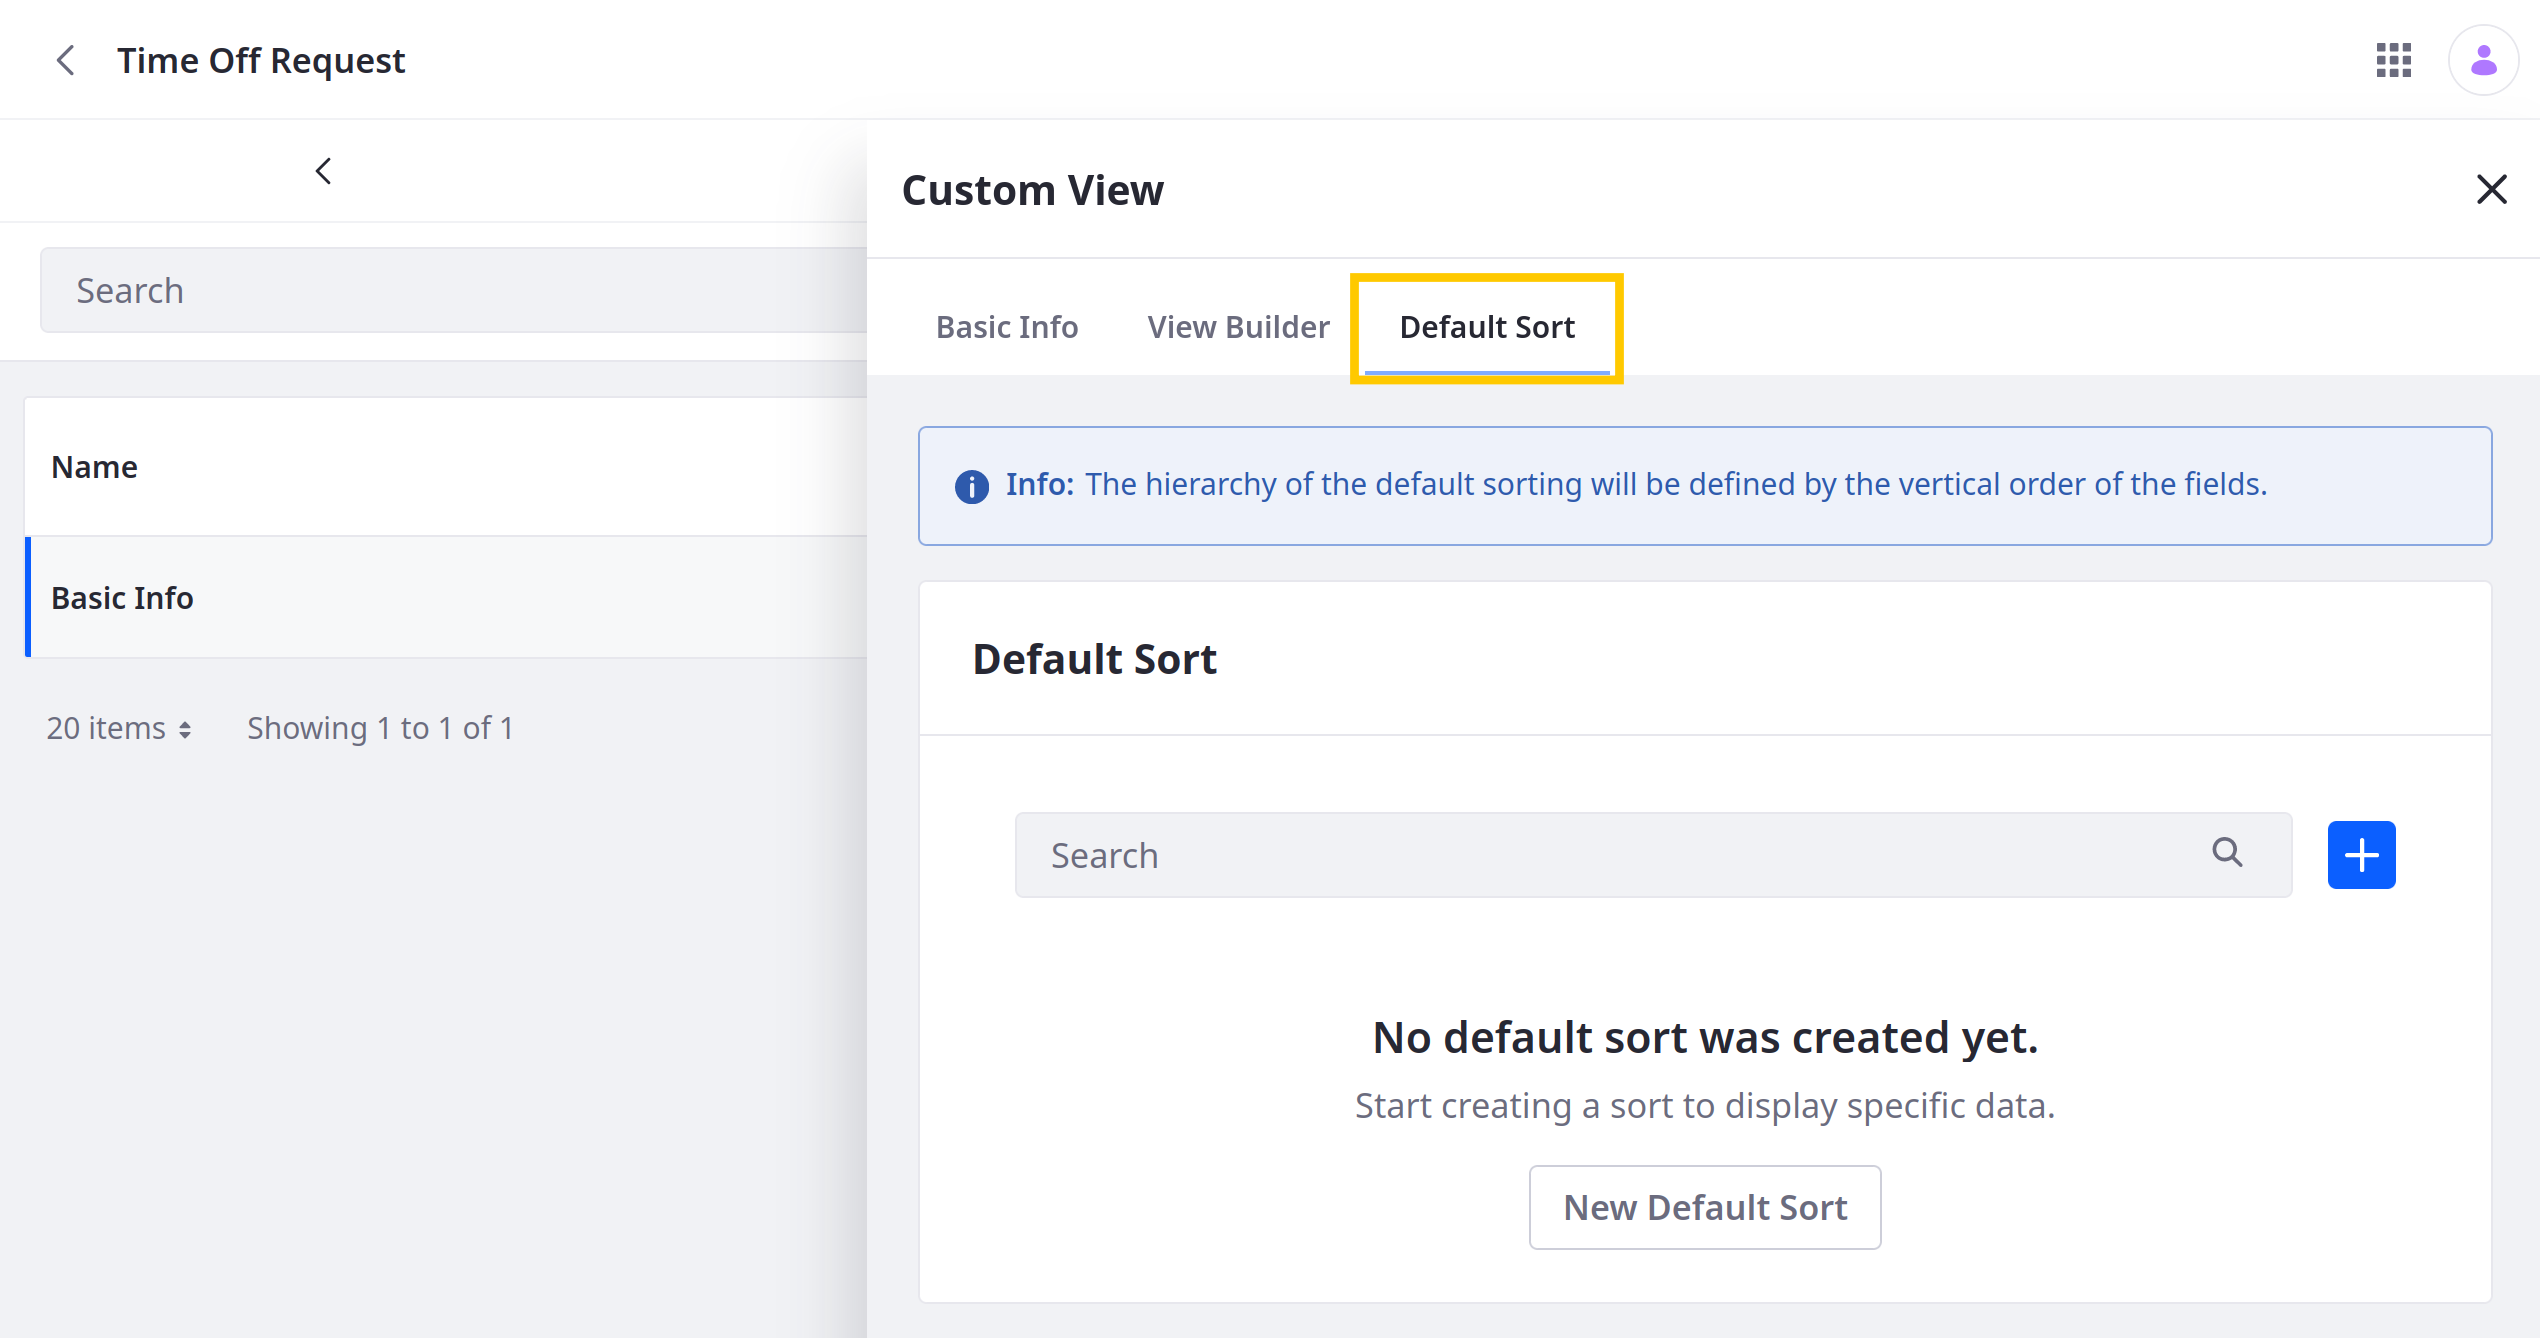
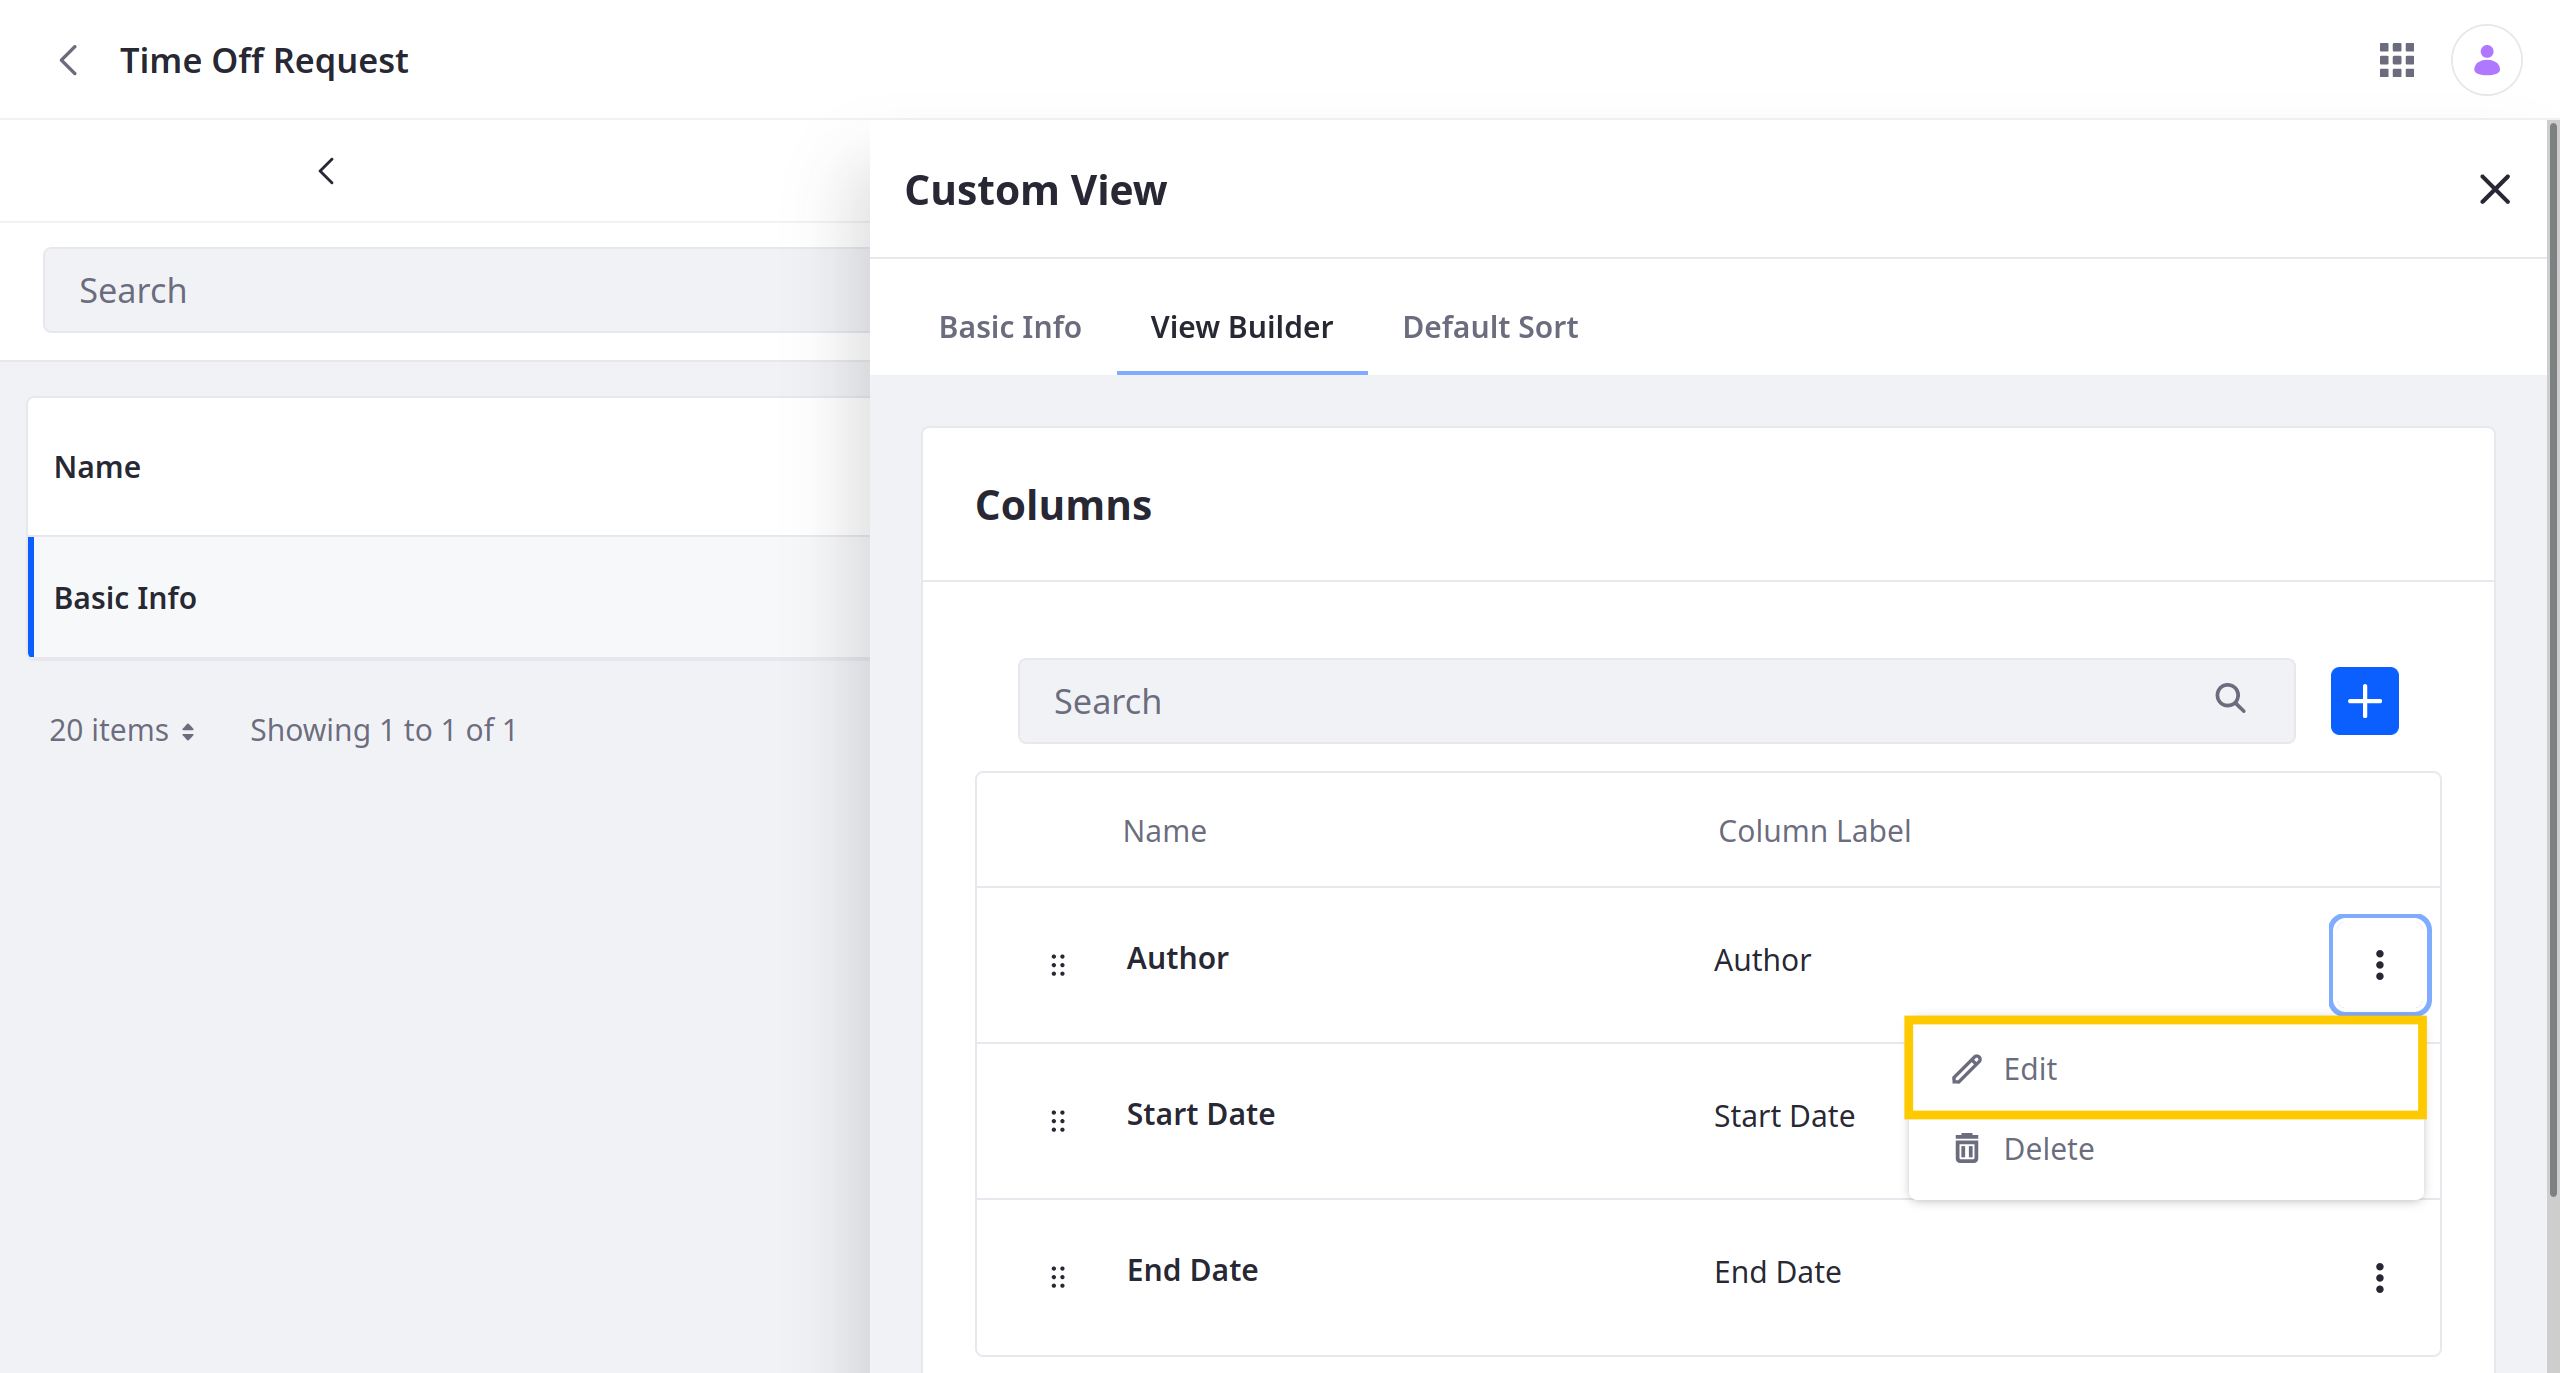
LRDOCS-10384 & 10385 wordsmithing, restructuring, adds images

diff --git a/docs/dxp/latest/en/building-applications/objects/creating-and-managing-objects/designing-object-views.md b/docs/dxp/latest/en/building-applications/objects/creating-and-managing-objects/designing-object-views.md
@@ -7,7 +7,7 @@ Object views define tables for displaying entries in an Object's application pag
 ![Design custom views for displaying Object entries.](./designing-object-views/images/01.png)
 
 ```{note}
-Custom views can only be added to custom Objects. They cannot be added for System Objects.
+Custom views can only be added to custom Objects. They cannot be added to system Objects.
 ```
 
 Follow these steps to design a custom Object view:
@@ -50,33 +50,47 @@ Follow these steps to design a custom Object view:
 
 1. Drag and drop fields to arrange their order.
 
-1. (Optional) For 7.4 U21+, rename a column by clicking its *Actions* button (![Actions Button](../../../images/icon-actions.png)) and selecting *Rename*. This changes the column's display name in the custom view.
+1. (Optional) [Change or localize](#renaming-columns) the display name for each view column.
 
 1. Click *Save*.
 
-Once saved, the custom view is used for displaying Object entries.
+Once saved, the custom view is used to display the Object's entries.
 
 ```{tip}
 For 7.4 U21+, you can duplicate a view by clicking its *Actions* button (![Actions Button](../../../images/icon-actions.png)) and selecting *Duplicate*. This creates a complete copy of the original view with "(Copy)" appended to it's name. 
 ```
 
-## Setting a Default Sorting for Views
+## Renaming Columns
+
+{bdg-secondary}`Available Liferay DXP 7.4 U21+ and Portal 7.4 GA21+`
+
+Follow these steps to change or localize the display name of view columns:
+
+1. Select the desired *view* and go to the *View Builder* tab.
+
+1. Click the *Actions* button (![Actions Button](../../../images/icon-actions.png)) for the desired column and select *Edit*.
+
+   ![Click the Actions button for the desired column and select Edit.](./designing-object-views/images/05.png)
+
+1. Enter a localizable name into the *Column Label* field and click *Edit*.
+
+   ![Enter a localizable name and click Edit.](./designing-object-views/images/06.png)
+
+1. Click *Save*.
+
+## Setting a Default Sorting
 
 {bdg-secondary}`Available Liferay DXP 7.4 U18+ and Portal 7.4 GA18+`
 
 Follow these steps to set the default ordering/sorting for Object View columns:
 
-1. Open the *Global Menu* (![Global Menu](../../../images/icon-applications-menu.png)), click the *Control Panel* tab, and go to *Objects*.
+1. Select the desired *view*, go to the *Default Sort* tab, and click the *Add* button (![Add Button](../../../images/icon-add.png)).
 
-1. Begin editing the desired *Object*, go to the *Views* tab, and select the desired *view*.
-
-1. Go to the *Default Sort* tab and click the *Add* button (![Add Button](../../../images/icon-add.png)).
-
-   ![Go to the Default Sort tab and click the Add button.](./designing-object-views/images/05.png)
+   ![Go to the Default Sort tab and click the Add button.](./designing-object-views/images/07.png)
 
 1. Select a *column* and *sorting* order (i.e., Ascending or Descending).
 
-   ![Select a column and sorting.](./designing-object-views/images/06.png)
+   ![Select a column and sorting.](./designing-object-views/images/08.png)
 
 1. Click *Save*.
 
@@ -84,10 +98,10 @@ Object entries are now sorted according to your default sorting.
 
 If you create multiple default sorts, you can rearrange them to determine which is applied to the view. The view uses the sort that's placed first.
 
-![Arrange sortings to determine which is used.](./designing-object-views/images/07.png)
+![Arrange sortings to determine which is used.](./designing-object-views/images/09.png)
 
 ## Filtering Views
-<!-- U17? Filtering entries in a custom view-->
+
 Coming Soon!
 
 ## Additional Information
